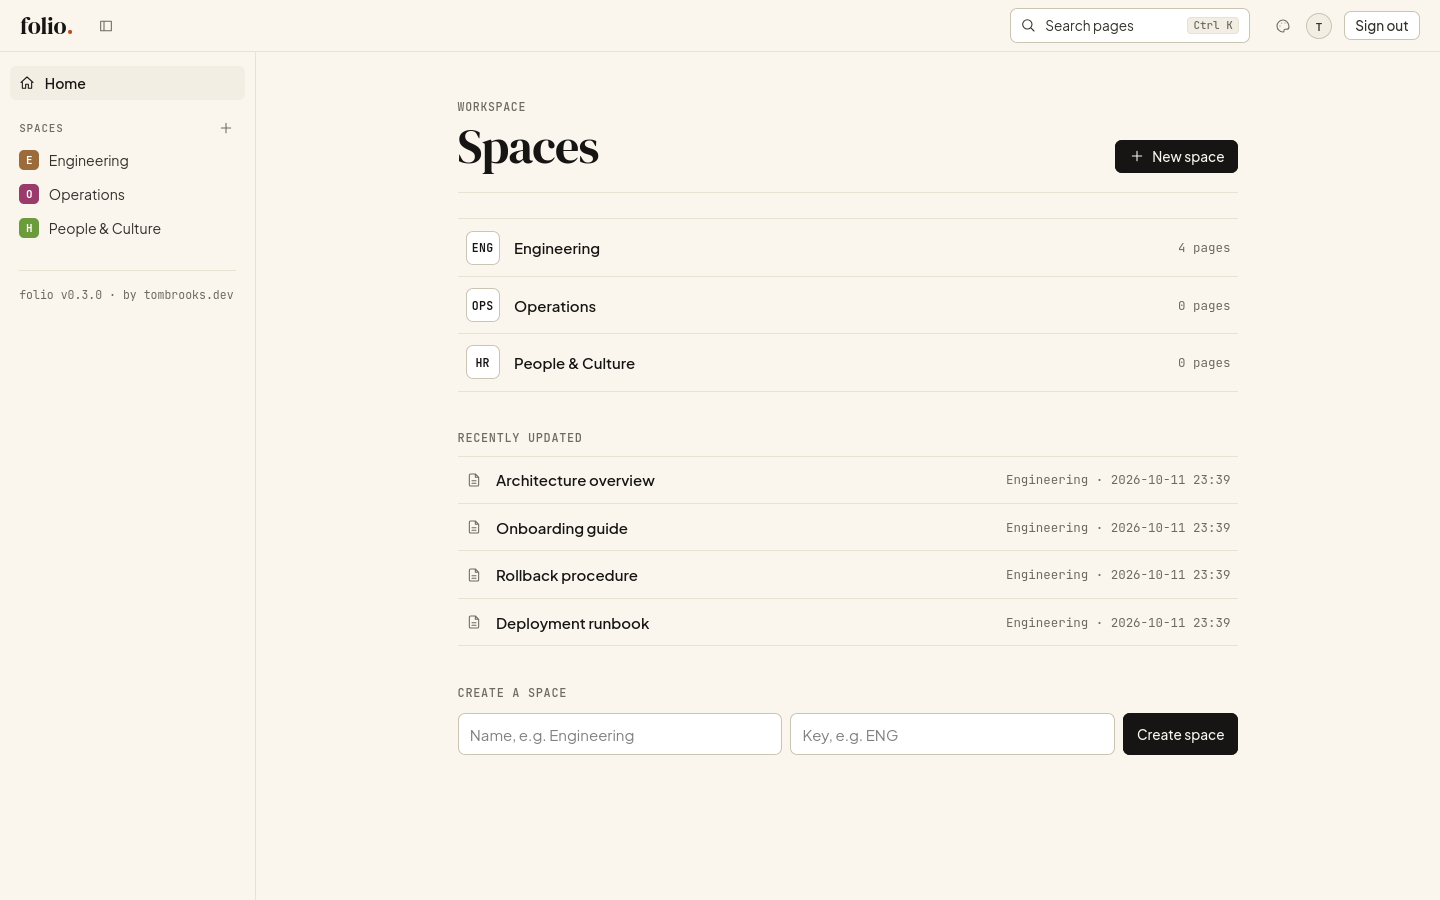
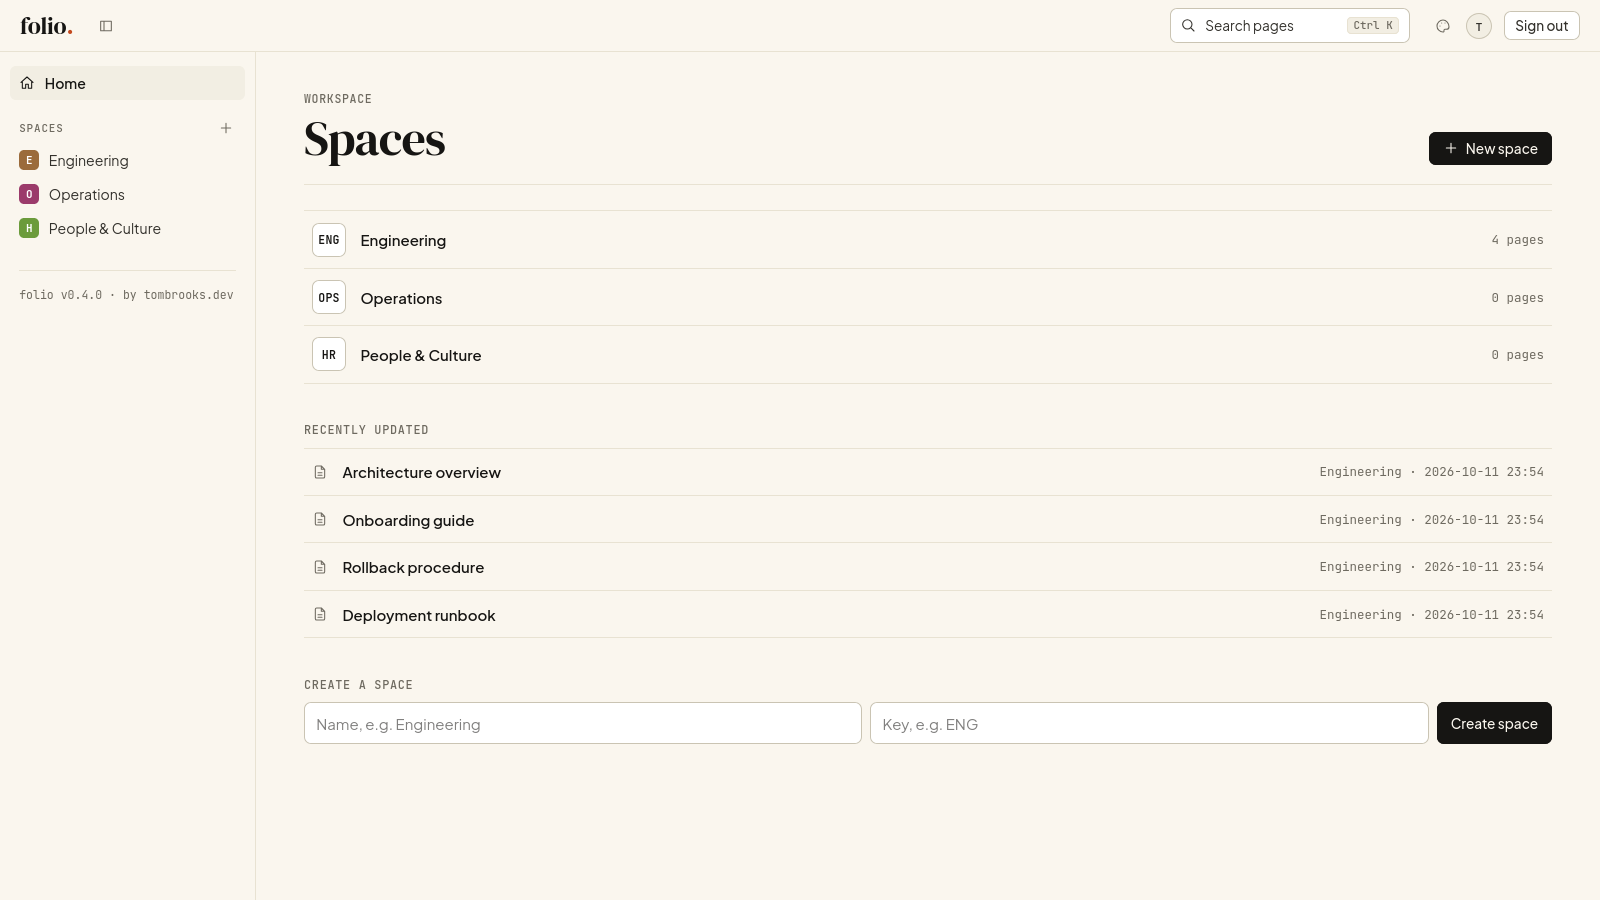
Refresh README screenshots (issue view, reports, burndown)

diff --git a/README.md b/README.md
@@ -60,9 +60,17 @@ Confluence and Jira are brilliant, and priced like it. Folio is the 20% of both 
 |---|---|
 | ![Article](docs/screenshots/article.png) | ![Editor](docs/screenshots/editor.png) |
 
-| Backlog | Home |
+| Backlog | Issue |
 |---|---|
-| ![Backlog](docs/screenshots/backlog.png) | ![Home](docs/screenshots/home.png) |
+| ![Backlog](docs/screenshots/backlog.png) | ![Issue](docs/screenshots/issue.png) |
+
+| Velocity and sprint history | Sprint burndown |
+|---|---|
+| ![Reports](docs/screenshots/reports.png) | ![Sprint report](docs/screenshots/sprint-report.png) |
+
+| Home |
+|---|
+| ![Home](docs/screenshots/home.png) |
 
 ### Themes
 

diff --git a/CHANGELOG.md b/CHANGELOG.md
@@ -4,7 +4,8 @@ All notable changes to Folio are recorded here. The format follows [Keep a Chang
 
 ## [Unreleased]
 
-Nothing yet.
+### Changed
+- Refreshed README screenshots, including the issue view, reports and burndown.
 
 ## [0.4.0] - 2026-10-12
 
